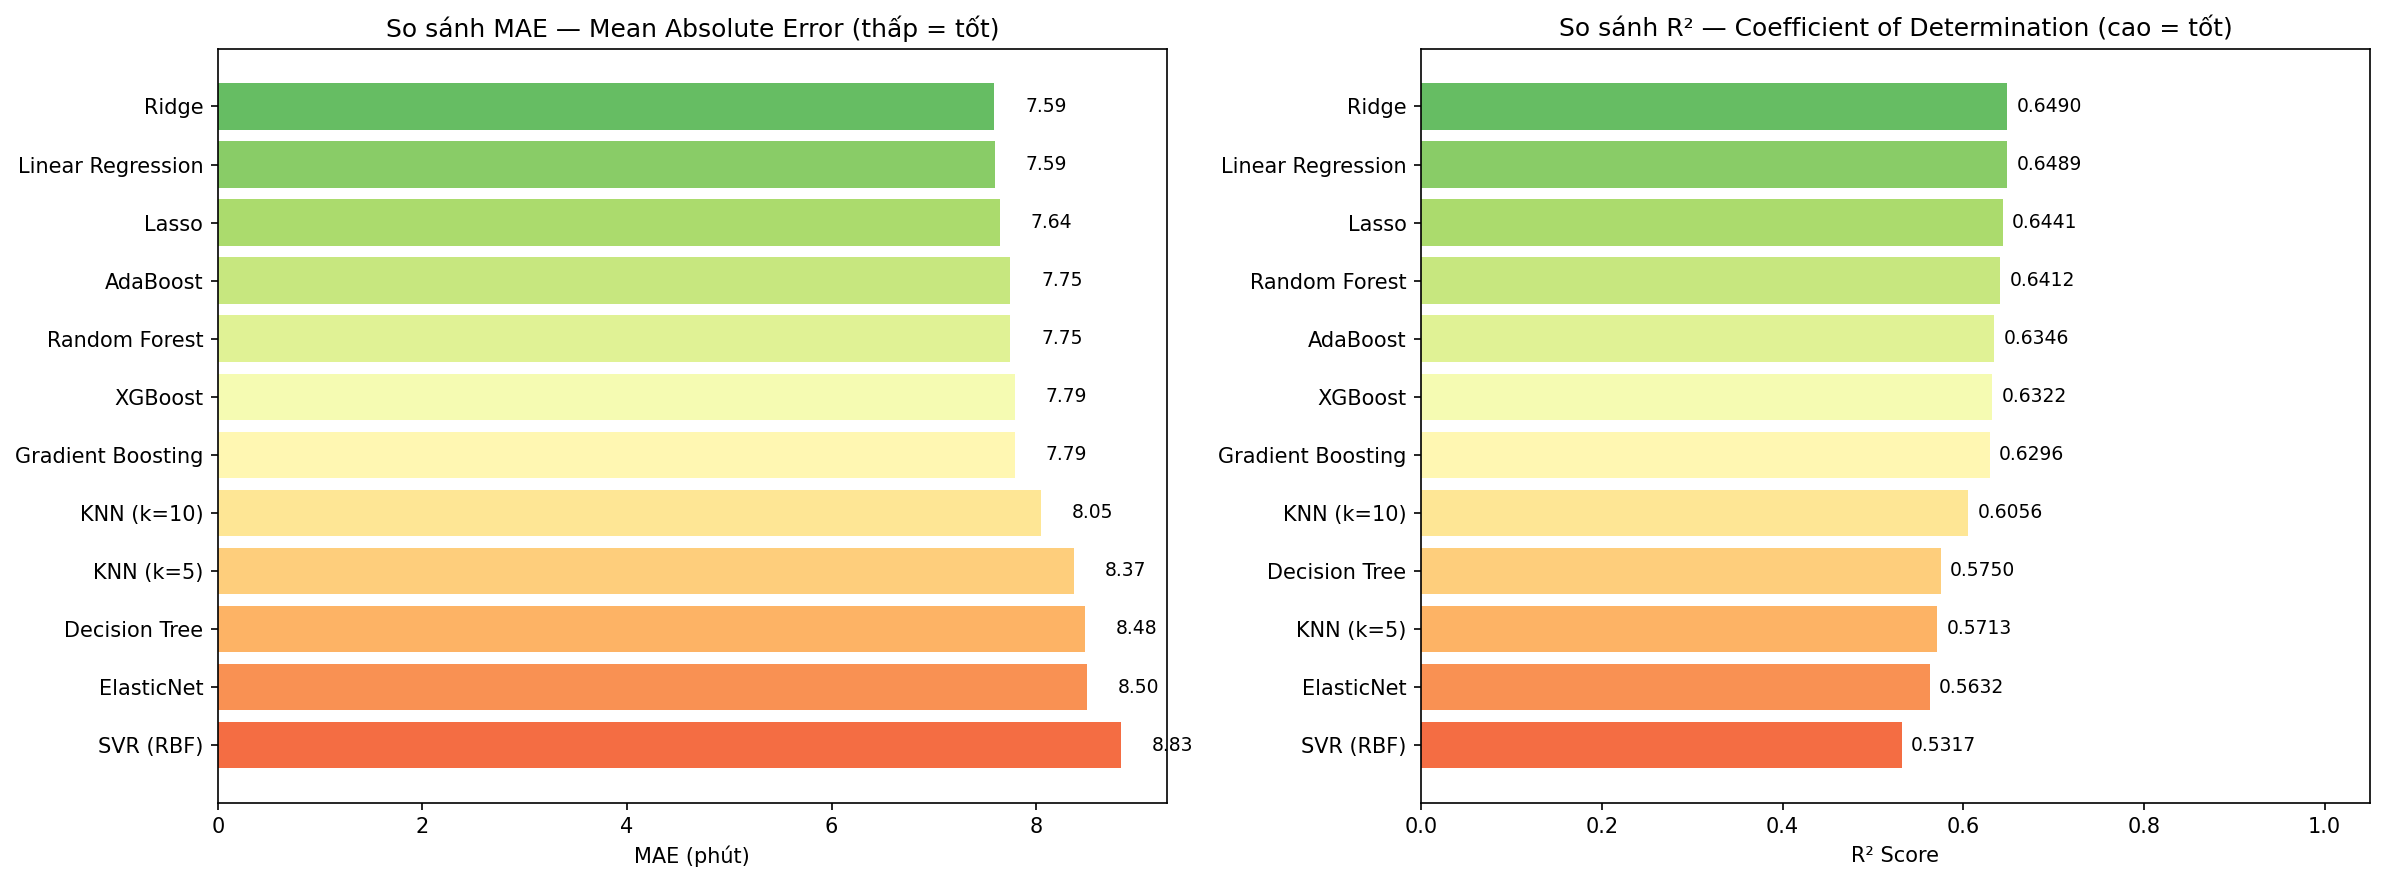
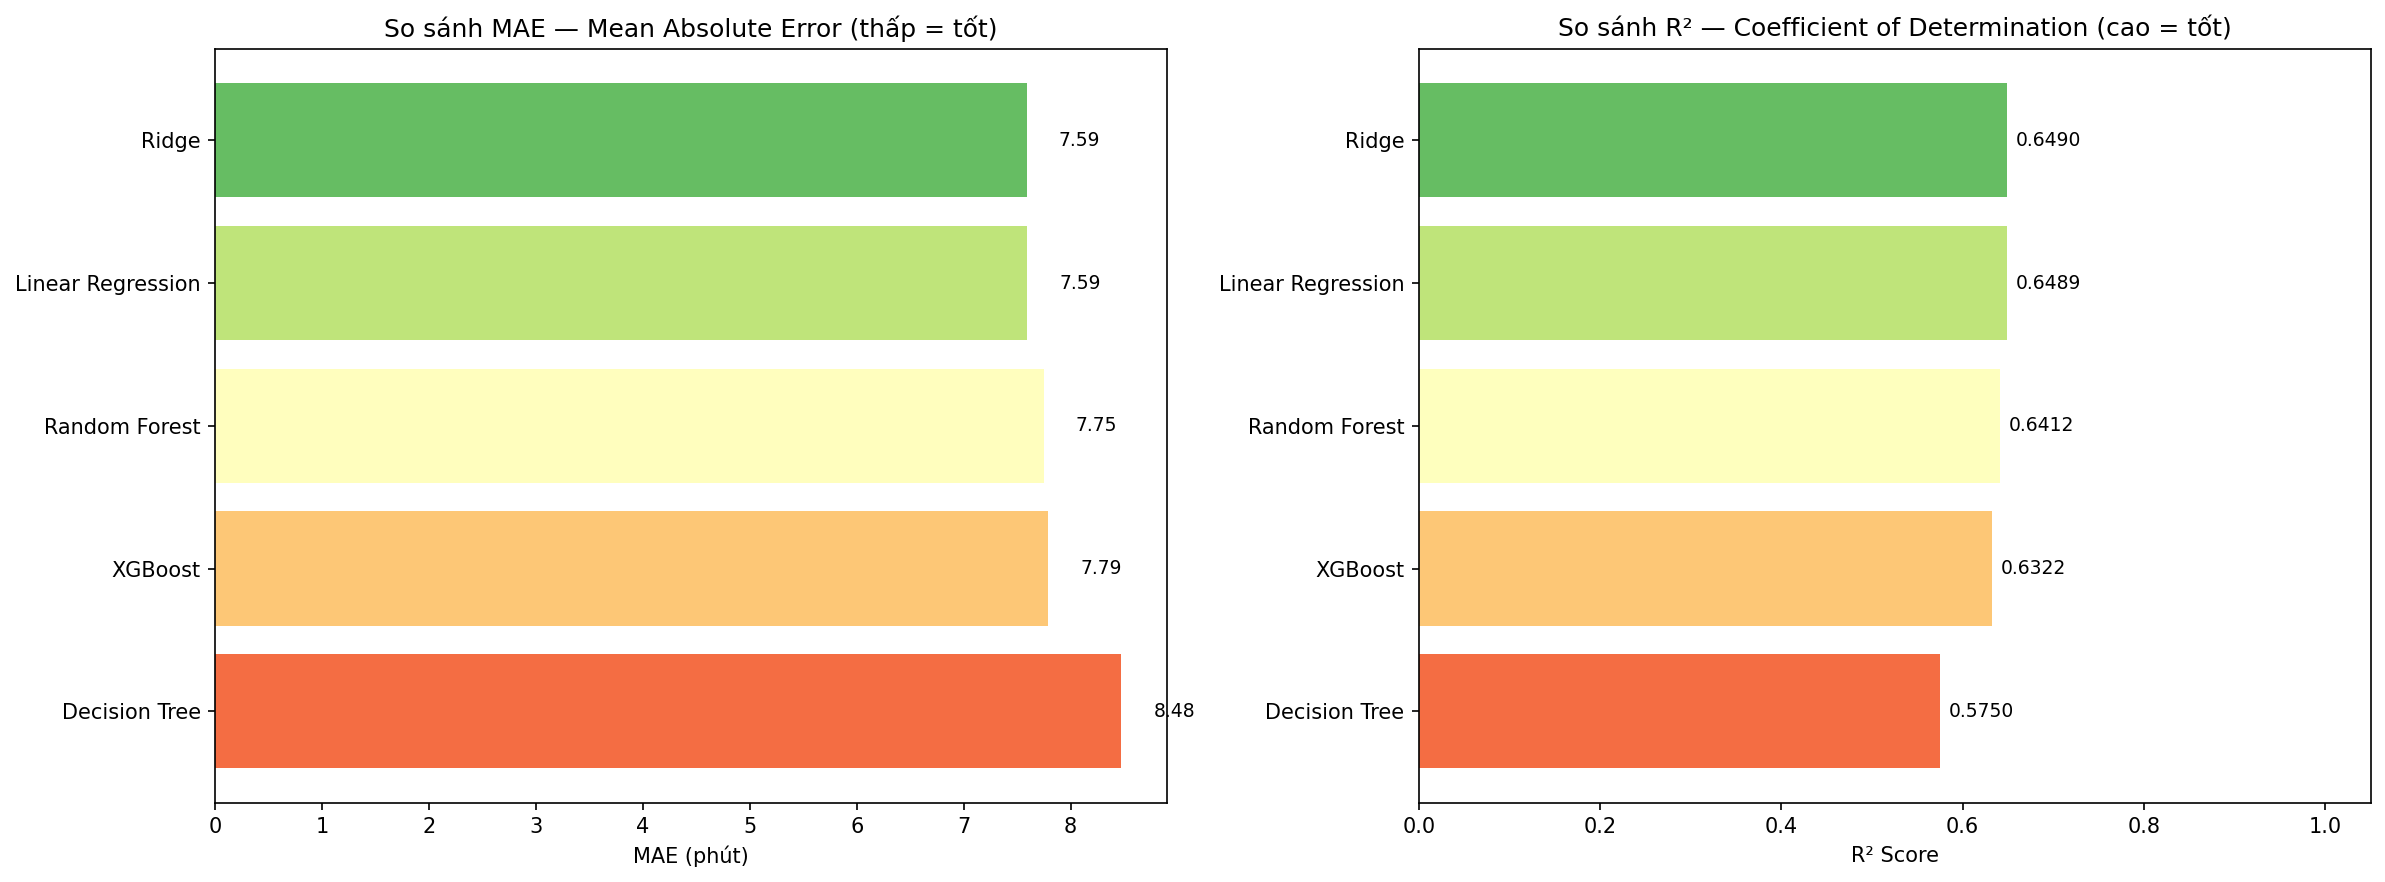
predict delivery time

diff --git a/backend/ml/train.py b/backend/ml/train.py
@@ -25,15 +25,9 @@ from sklearn.pipeline import Pipeline
 from sklearn.metrics import make_scorer, mean_absolute_error, root_mean_squared_error, r2_score
 
 # ── Các thuật toán ──
-from sklearn.linear_model import LinearRegression, Ridge, Lasso, ElasticNet
+from sklearn.linear_model import LinearRegression, Ridge
 from sklearn.tree import DecisionTreeRegressor
-from sklearn.ensemble import (
-    RandomForestRegressor,
-    GradientBoostingRegressor,
-    AdaBoostRegressor,
-)
-from sklearn.svm import SVR
-from sklearn.neighbors import KNeighborsRegressor
+from sklearn.ensemble import RandomForestRegressor
 from xgboost import XGBRegressor
 
 from config import FEATURE_NAMES, DATA_DIR, MODEL_DIR
@@ -52,43 +46,16 @@ def get_models():
             ("scaler", StandardScaler()),
             ("model", Ridge(alpha=1.0)),
         ]),
-        "Lasso": Pipeline([
-            ("scaler", StandardScaler()),
-            ("model", Lasso(alpha=1.0)),
-        ]),
-        "ElasticNet": Pipeline([
-            ("scaler", StandardScaler()),
-            ("model", ElasticNet(alpha=1.0, l1_ratio=0.5)),
-        ]),
-        "KNN (k=5)": Pipeline([
-            ("scaler", StandardScaler()),
-            ("model", KNeighborsRegressor(n_neighbors=5)),
-        ]),
-        "KNN (k=10)": Pipeline([
-            ("scaler", StandardScaler()),
-            ("model", KNeighborsRegressor(n_neighbors=10)),
-        ]),
         "Decision Tree": DecisionTreeRegressor(
             max_depth=6, min_samples_leaf=5, random_state=42
         ),
         "Random Forest": RandomForestRegressor(
             n_estimators=100, max_depth=8, min_samples_leaf=3, random_state=42
         ),
-        "Gradient Boosting": GradientBoostingRegressor(
-            n_estimators=100, max_depth=4, learning_rate=0.1,
-            min_samples_leaf=5, random_state=42
-        ),
-        "AdaBoost": AdaBoostRegressor(
-            n_estimators=100, learning_rate=0.1, random_state=42
-        ),
         "XGBoost": XGBRegressor(
             n_estimators=100, max_depth=4, learning_rate=0.1,
             min_child_weight=5, random_state=42, verbosity=0
         ),
-        "SVR (RBF)": Pipeline([
-            ("scaler", StandardScaler()),
-            ("model", SVR(kernel="rbf", C=100, epsilon=1.0)),
-        ]),
     }
 
 
